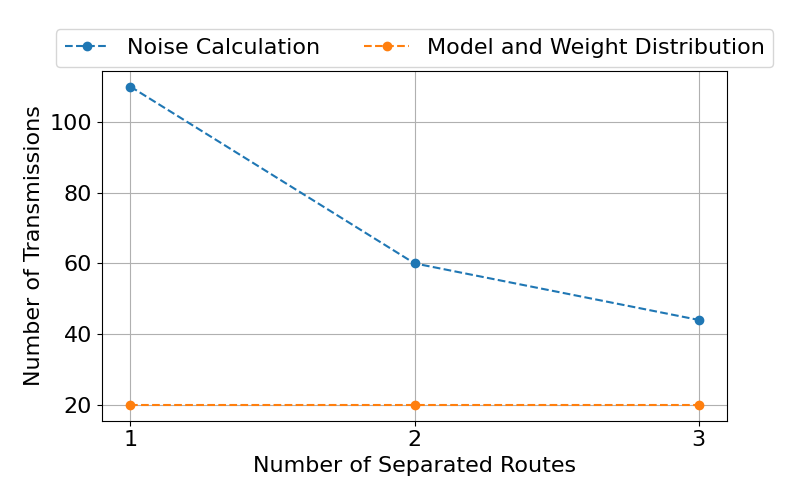
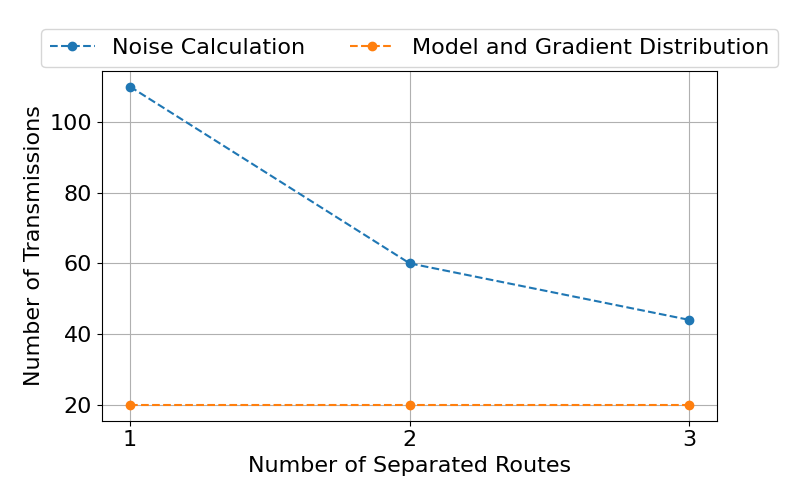
Adjusted graph title

diff --git a/Graph_Creation/graph_creation.py b/Graph_Creation/graph_creation.py
@@ -389,7 +389,7 @@ def graphCompareTransmissionsOverPartitions(file_names, columns):
     yaxis_dict = {key: [] for key in columns}
     for key in transmissions_dict:
         yaxis_dict["Noise Calculation"].append(int(transmissions_dict[key][0]))
-        yaxis_dict["Model and Weight Distribution"].append(int(transmissions_dict[key][1]))
+        yaxis_dict["Model and Gradient Distribution"].append(int(transmissions_dict[key][1]))
 
     fig, ax = plt.subplots(figsize=(8, 5)) 
 
@@ -420,7 +420,7 @@ if __name__ == '__main__':
         "2": "../Results/MNIST_baseline_partition_2/MNIST_baseline_partition_2_transmissions.csv",
         "3": "../Results/MNIST_baseline_partition_3/MNIST_baseline_partition_3_transmissions.csv"
     }
-    columns = ["Noise Calculation", "Model and Weight Distribution"]
+    columns = ["Noise Calculation", "Model and Gradient Distribution"]
     graphCompareTransmissionsOverPartitions(graph_compare_number_partition_files, columns)
 '''
     # THIS IS USED TO COMPARE THE ACCURACY AND LOSS OF OUR SCHEME VS FEDAVG SCHEME ACROSS DIFFERENT DATASETS
